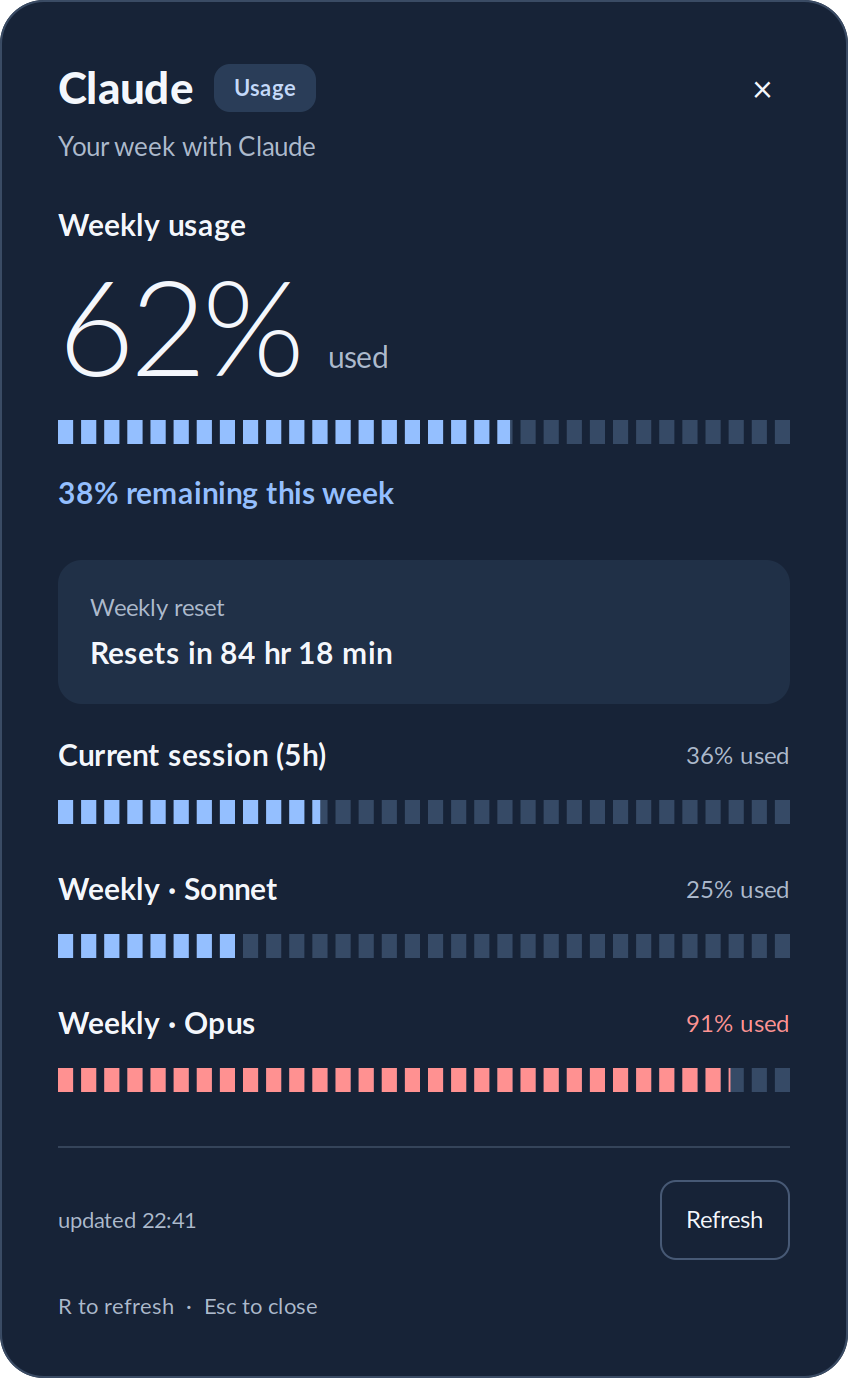
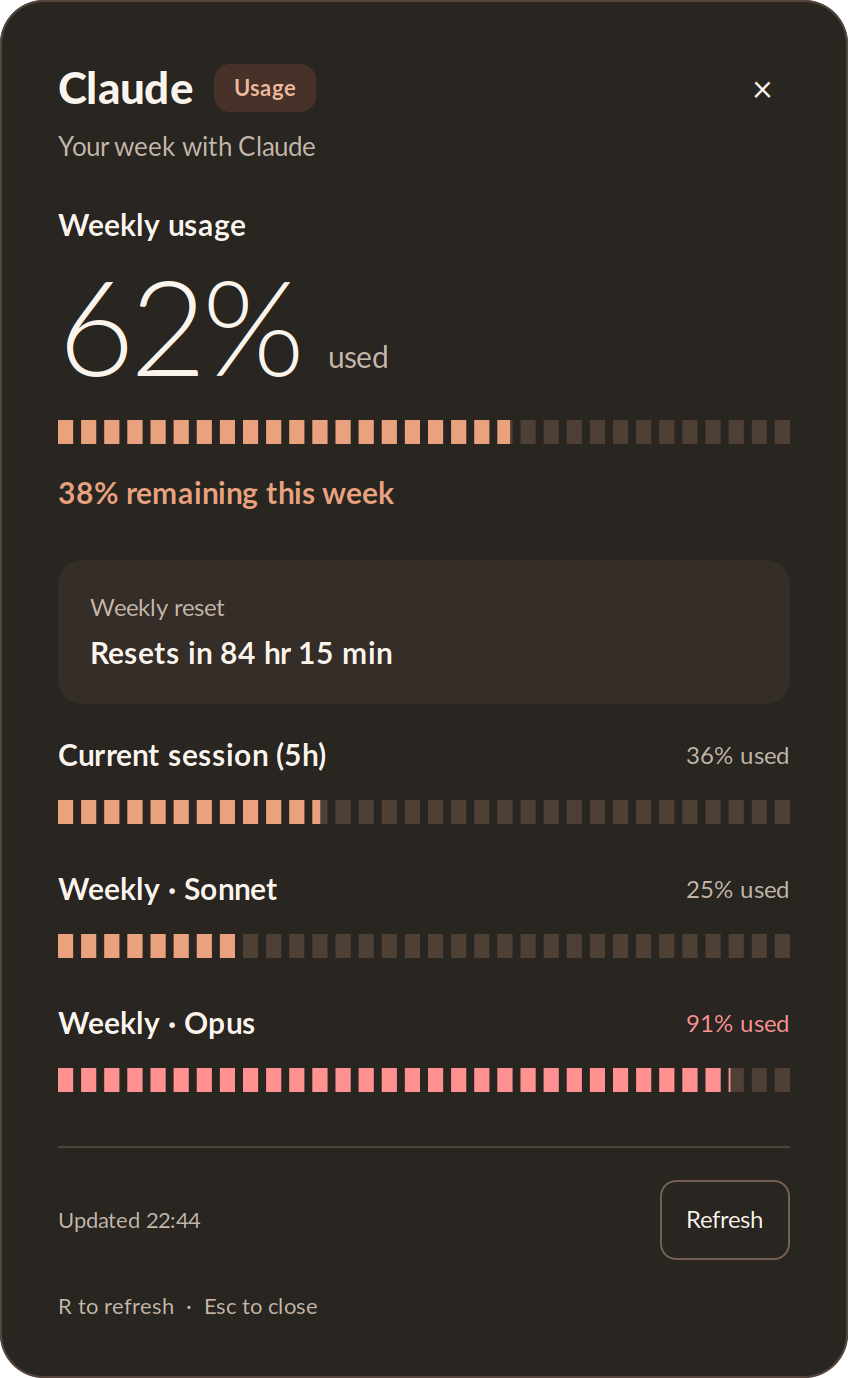
feat: apply warm Claude colors to usage widget and CLI

diff --git a/claude_usage_widget.py b/claude_usage_widget.py
@@ -40,26 +40,26 @@ from gi.repository import Gtk, GLib, Gdk
 
 CSS = b'''
 window { background: transparent; font-family: Lato, sans-serif; }
-.panel { background: #172337; border: 1px solid #3a4b64; border-radius: 22px; }
-label { color: #f4f7fc; }
+.panel { background: #292521; border: 1px solid #55453b; border-radius: 22px; }
+label { color: #faf4ed; }
 .title { font-size: 22px; font-weight: 800; }
-.subtitle { color: #adbacd; font-size: 13px; }
-.badge { color: #c4d9fa; background: #2a3d58; border-radius: 8px; padding: 5px 10px; font-size: 11px; font-weight: 700; }
+.subtitle { color: #c5b8ab; font-size: 13px; }
+.badge { color: #f1b89d; background: #463229; border-radius: 8px; padding: 5px 10px; font-size: 11px; font-weight: 700; }
 .value { font-size: 66px; font-weight: 300; letter-spacing: -2px; }
-.unit { color: #adbacd; font-size: 15px; padding-bottom: 15px; }
-.remaining { color: #94bfff; font-size: 15px; font-weight: 700; }
+.unit { color: #c5b8ab; font-size: 15px; padding-bottom: 15px; }
+.remaining { color: #eaa17e; font-size: 15px; font-weight: 700; }
 .detail { font-size: 15px; font-weight: 700; }
-.caption { color: #adbacd; font-size: 12px; }
-.status { color: #adbacd; font-size: 11px; }
+.caption { color: #c5b8ab; font-size: 12px; }
+.status { color: #c5b8ab; font-size: 11px; }
 .warning { color: #f5c879; }
 .error { color: #ff9292; }
-.reset-box { background: #203047; border-radius: 12px; padding: 16px; }
-button { background: transparent; background-image: none; color: #c4d9fa; border: 1px solid #475975; border-radius: 8px; padding: 7px 12px; box-shadow: none; text-shadow: none; font-size: 12px; }
-button:hover { background: #304561; border-color: #94bfff; }
-button:focus { border-color: #94bfff; outline: 2px solid #94bfff; outline-offset: 2px; }
-button:disabled { color: #7a8aa1; border-color: #304159; }
+.reset-box { background: #352d27; border-radius: 12px; padding: 16px; }
+button { background: transparent; background-image: none; color: #f1b89d; border: 1px solid #746052; border-radius: 8px; padding: 7px 12px; box-shadow: none; text-shadow: none; font-size: 12px; }
+button:hover { background: #514035; border-color: #eaa17e; }
+button:focus { border-color: #eaa17e; outline: 2px solid #eaa17e; outline-offset: 2px; }
+button:disabled { color: #958477; border-color: #4b3c32; }
 .close { border: none; padding: 3px 6px; font-size: 18px; }
-separator { background: #35445a; min-height: 1px; }
+separator { background: #504238; min-height: 1px; }
 '''
 
 
@@ -90,7 +90,7 @@ class Meter(Gtk.DrawingArea):
         count, gap, height = 32, 4, 12
         width = (self.get_allocated_width() - gap * (count - 1)) / count
         y = (self.get_allocated_height() - height) / 2
-        color = (0.58, 0.75, 1.0)
+        color = (0.918, 0.631, 0.494)
         if self.percent is not None and self.percent >= 90:
             color = (1.0, 0.57, 0.57)
         elif self.percent is not None and self.percent >= 75:
@@ -98,7 +98,7 @@ class Meter(Gtk.DrawingArea):
         filled = min(100, max(0, self.percent or 0)) / 100 * count
         for i in range(count):
             x = i * (width + gap)
-            cr.set_source_rgb(0.21, 0.29, 0.40)
+            cr.set_source_rgb(0.31, 0.25, 0.21)
             cr.rectangle(x, y, width, height)
             cr.fill()
             fraction = min(1, max(0, filled - i))

diff --git a/claude_usage_cli.py b/claude_usage_cli.py
@@ -16,12 +16,12 @@ DIM   = '\x1b[2m'
 WHITE     = rgb_fg(232, 232, 232)
 GREY      = rgb_fg(136, 136, 136)
 DARKGREY  = rgb_fg(102, 102, 102)
-BLUE      = rgb_fg(74, 158, 255)
-BLUE_BG   = rgb_bg(30, 58, 95)
+ACCENT      = rgb_fg(234, 161, 126)
+ACCENT_BG   = rgb_bg(70, 50, 41)
 ORANGE    = rgb_fg(245, 166, 35)
 RED       = rgb_fg(255, 107, 107)
 TROUGH_BG = rgb_bg(42, 42, 42)
-BLUE_FILL_BG   = rgb_bg(74, 158, 255)
+ACCENT_FILL_BG   = rgb_bg(234, 161, 126)
 ORANGE_FILL_BG = rgb_bg(245, 166, 35)
 RED_FILL_BG    = rgb_bg(255, 68, 68)
 
@@ -31,7 +31,7 @@ BAR_WIDTH = 36
 def color_for(pct):
     if pct >= 80: return RED, RED_FILL_BG
     if pct >= 60: return ORANGE, ORANGE_FILL_BG
-    return BLUE, BLUE_FILL_BG
+    return ACCENT, ACCENT_FILL_BG
 
 
 def render_bar(pct):
@@ -57,10 +57,10 @@ def render_row(row):
 def render_dashboard(rows):
     now = datetime.now().strftime('%H:%M')
     lines = []
-    badge = f'{BLUE_BG}{BLUE} MAX 5× {RESET}'
+    badge = f'{ACCENT_BG}{ACCENT} Usage {RESET}'
     title = f'{BOLD}{WHITE}CLAUDE  USAGE{RESET}'
     updated = f'{DIM}{DARKGREY}updated {now}{RESET}'
-    pad = max(1, BAR_WIDTH + 2 - len('CLAUDE  USAGE') - len(' MAX 5× ') - len(f'updated {now}') - 2)
+    pad = max(1, BAR_WIDTH + 2 - len('CLAUDE  USAGE') - len(' Usage ') - len(f'updated {now}') - 2)
     lines.append(f'{title} {badge}{" " * pad}{updated}')
     lines.append('')
 

diff --git a/README.md b/README.md
@@ -95,8 +95,8 @@ alias cu='/usr/bin/python3 /absolute/path/to/claude-usage-widget/claude_usage_cl
 
 ### GUI widget
 
-A rounded navy panel with a large weekly percentage, segmented usage meters,
-remaining quota, and a reset card matches the companion Codex widget. Session
+A rounded warm charcoal panel with terracotta accents with a large weekly percentage, segmented usage meters,
+remaining quota, and a reset card shares a layout with the companion Codex widget. Session
 and per-model limits stay visible below. Use **Refresh** (or **R**) to update
 and **×** (or **Esc**) to close. Failed refreshes retain available usage with
 a stale indicator; hover over the status for the error details.
